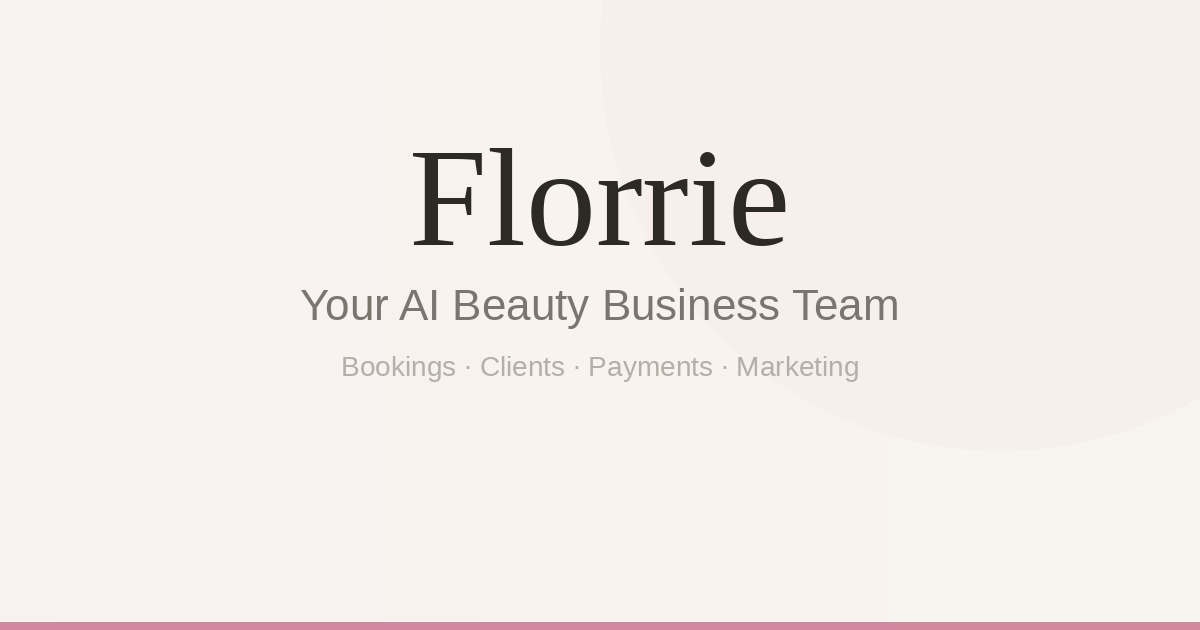
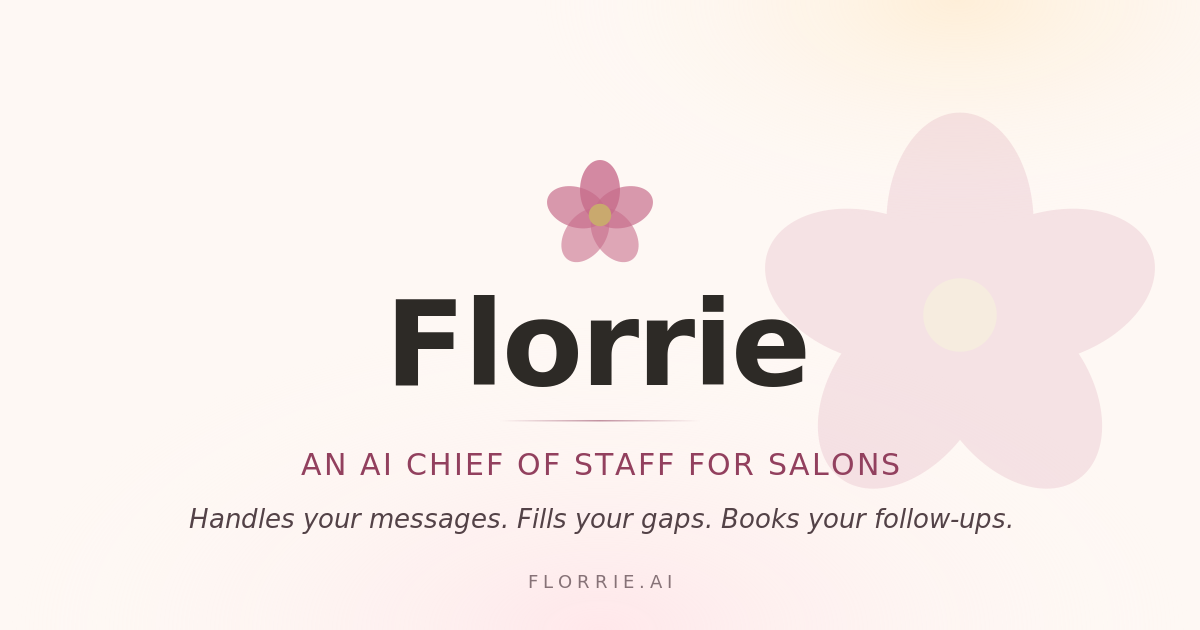
fix(meta): kill em dashes in tab title + sharpen browser preview
- tab title now "Florrie · AI Chief of Staff for salons" (interpunct, no em dash)
- og/twitter title + description rewritten to match AI Chief of Staff positioning
- og-image regenerated at 1200x630, on-brand cream/mauve/gold composition
- added og:site_name, og:image dimensions, og:image:alt, twitter:image:alt
- cache-bust og-image URL with ?v=2026-05-28 so socials refetch

diff --git a/frontend/index.html b/frontend/index.html
@@ -5,8 +5,8 @@
     <meta name="viewport" content="width=device-width, initial-scale=1.0, viewport-fit=cover" />
     <meta name="theme-color" content="#fef8f4" />
     <meta name="facebook-domain-verification" content="jm3mol91gajy7z5fgi3oyh1o0qxwv9" />
-    <title>florrie.ai — Your AI Team</title>
-    <meta name="description" content="florrie.ai is your AI-powered beauty business assistant. Manage bookings, clients, payments, and marketing from one place." />
+    <title>Florrie · AI Chief of Staff for salons</title>
+    <meta name="description" content="A quiet AI team that handles your messages, fills your gaps, and books your follow-ups. So you can focus on the chair." />
     <link rel="icon" type="image/svg+xml" href="/favicon.svg" />
     <link rel="icon" type="image/png" sizes="32x32" href="/favicon-32.png" />
     <link rel="apple-touch-icon" sizes="180x180" href="/apple-touch-icon.png" />
@@ -14,16 +14,21 @@
 
     <!-- Open Graph -->
     <meta property="og:type" content="website" />
-    <meta property="og:title" content="florrie.ai — Your AI Beauty Business Team" />
-    <meta property="og:description" content="Manage bookings, clients, payments, and marketing from one place. Built for independent beauty professionals." />
-    <meta property="og:image" content="https://florrie.ai/og-image.png" />
+    <meta property="og:site_name" content="Florrie" />
+    <meta property="og:title" content="Florrie · AI Chief of Staff for salons" />
+    <meta property="og:description" content="A quiet AI team that handles your messages, fills your gaps, and books your follow-ups. So you can focus on the chair." />
+    <meta property="og:image" content="https://florrie.ai/og-image.png?v=2026-05-28" />
+    <meta property="og:image:width" content="1200" />
+    <meta property="og:image:height" content="630" />
+    <meta property="og:image:alt" content="Florrie · AI Chief of Staff for salons" />
     <meta property="og:url" content="https://florrie.ai" />
 
     <!-- Twitter Card -->
     <meta name="twitter:card" content="summary_large_image" />
-    <meta name="twitter:title" content="florrie.ai — Your AI Beauty Business Team" />
-    <meta name="twitter:description" content="Manage bookings, clients, payments, and marketing from one place." />
-    <meta name="twitter:image" content="https://florrie.ai/og-image.png" />
+    <meta name="twitter:title" content="Florrie · AI Chief of Staff for salons" />
+    <meta name="twitter:description" content="A quiet AI team that handles your messages, fills your gaps, and books your follow-ups." />
+    <meta name="twitter:image" content="https://florrie.ai/og-image.png?v=2026-05-28" />
+    <meta name="twitter:image:alt" content="Florrie · AI Chief of Staff for salons" />
     <link rel="preconnect" href="https://fonts.googleapis.com" />
     <link rel="preconnect" href="https://fonts.gstatic.com" crossorigin />
     <link href="https://fonts.googleapis.com/css2?family=Noto+Serif:ital,wght@0,400;0,700;1,400&family=Plus+Jakarta+Sans:wght@300;400;500;600;700&family=Playfair+Display:ital,wght@0,400;0,700;1,400;1,700&family=DM+Sans:wght@400;500;600;700&family=DM+Mono:wght@400;500&display=swap" rel="stylesheet" />
